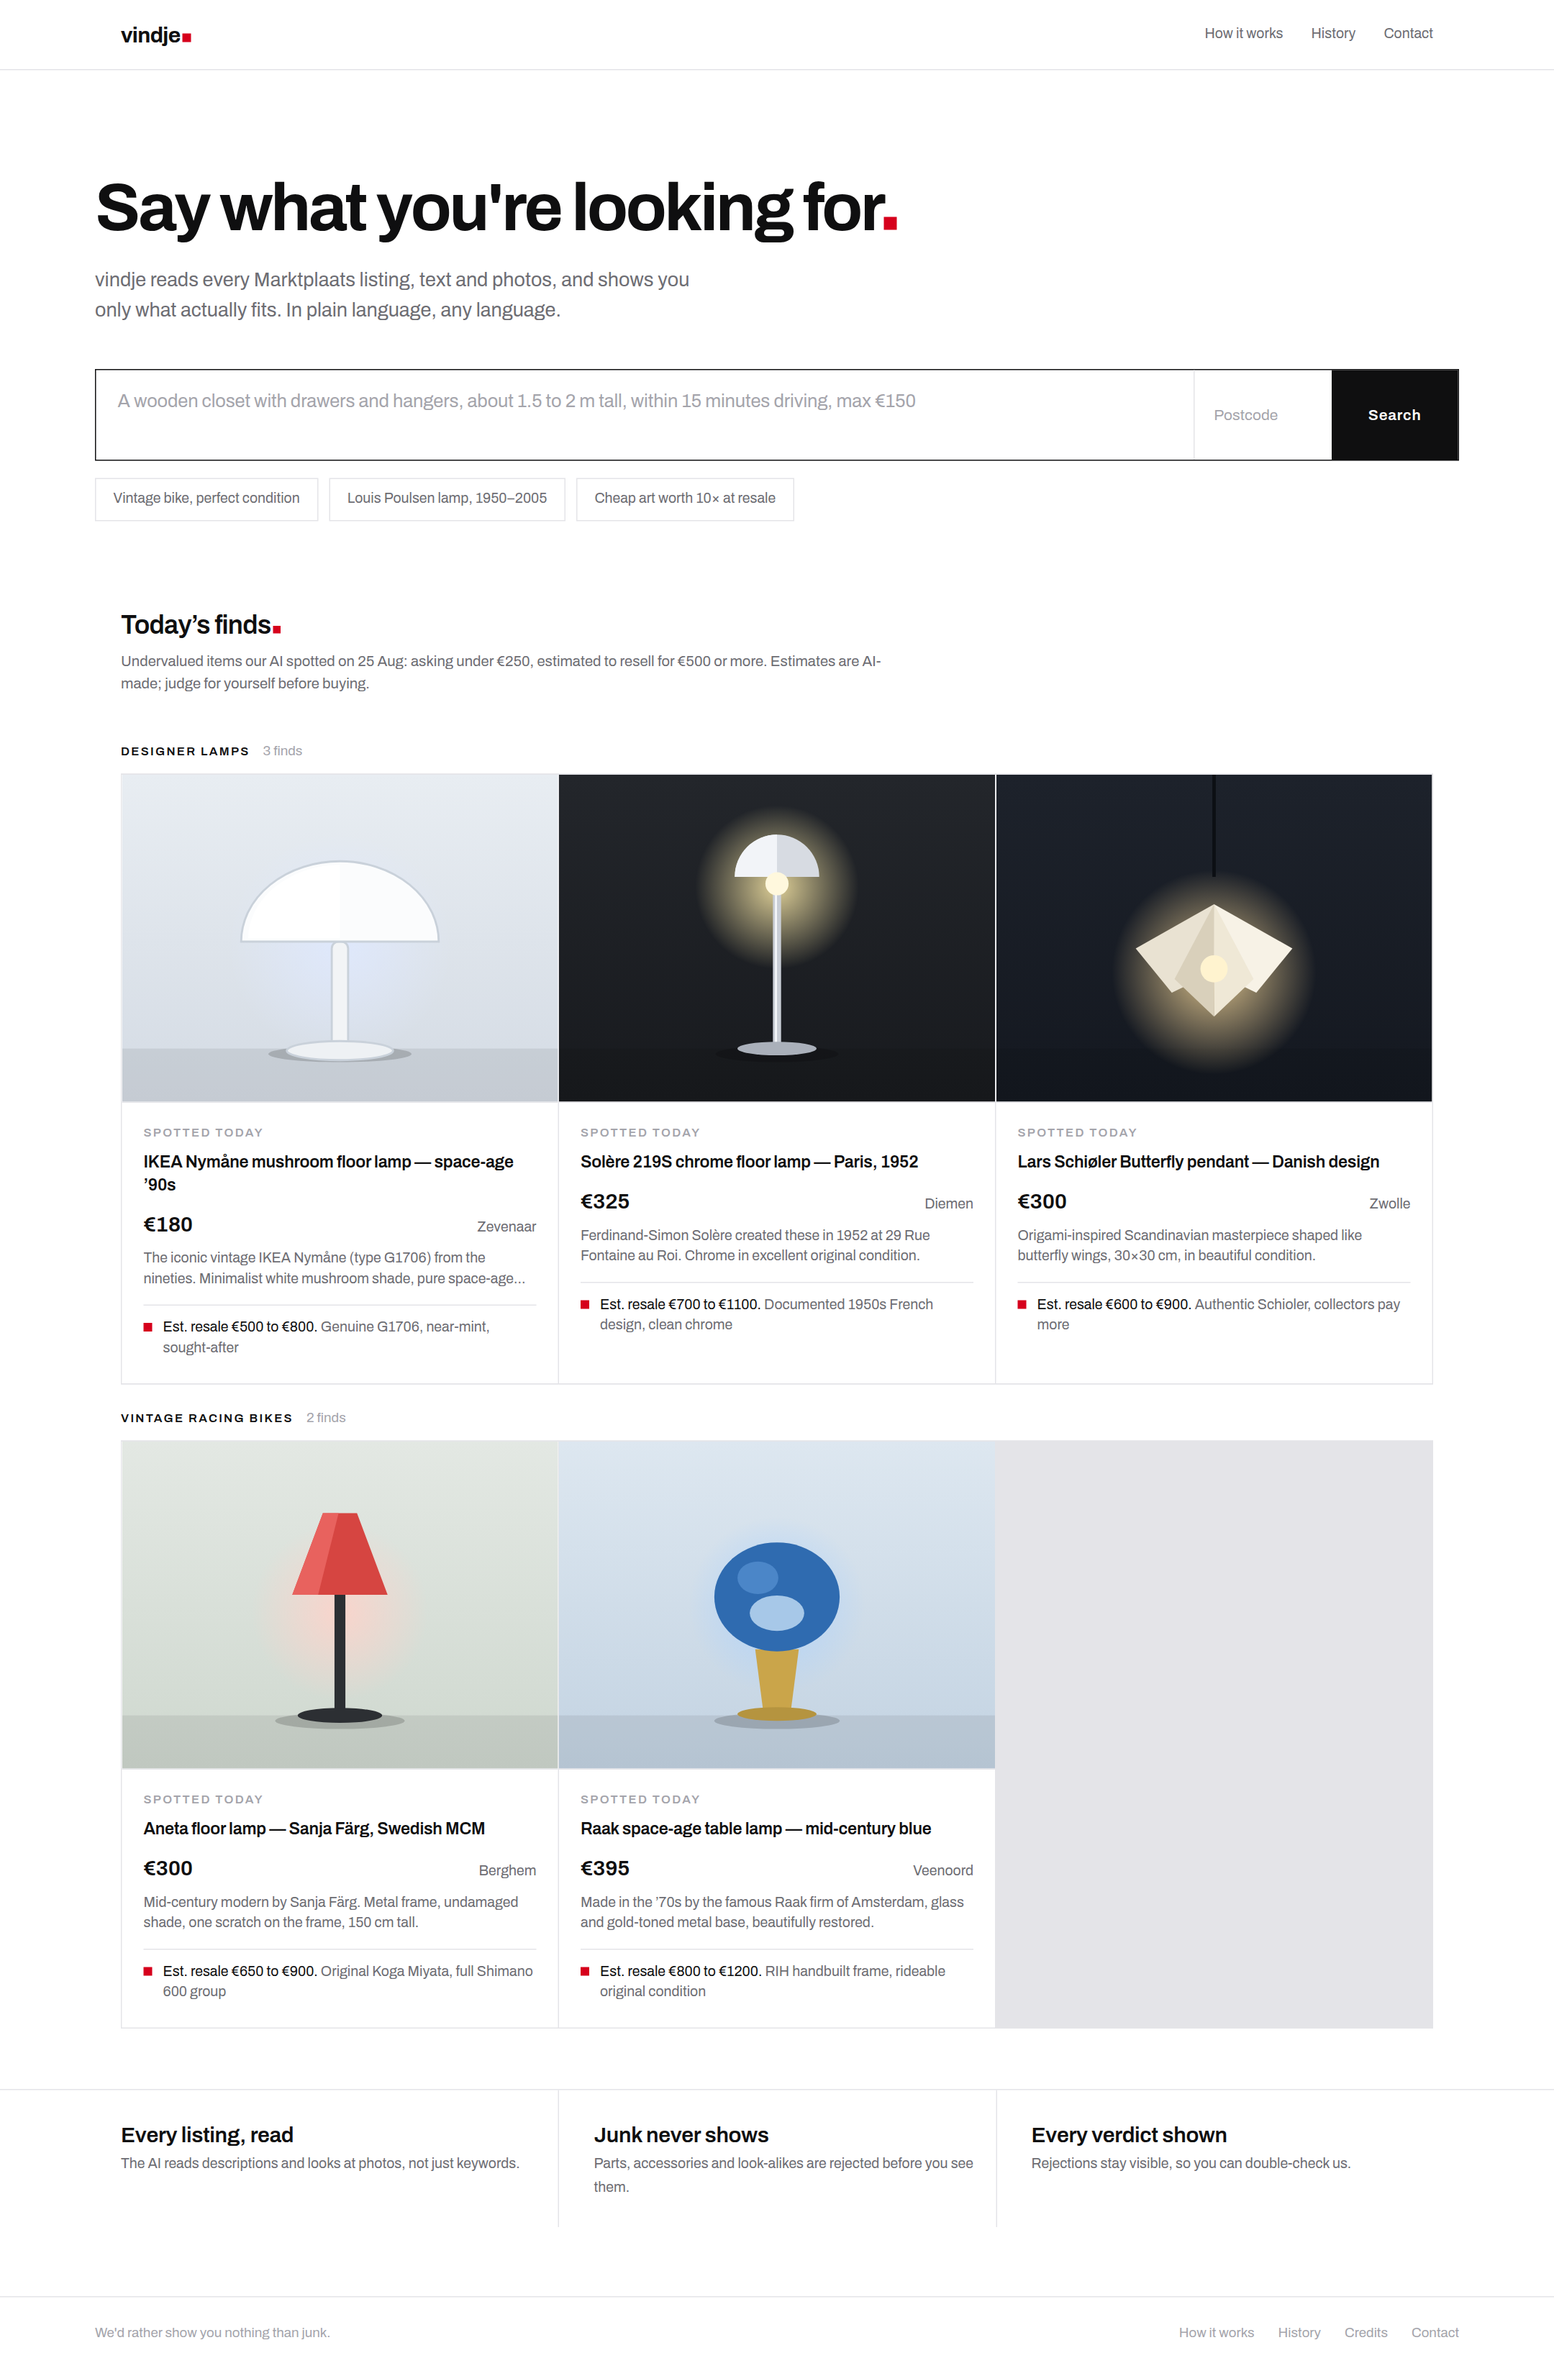
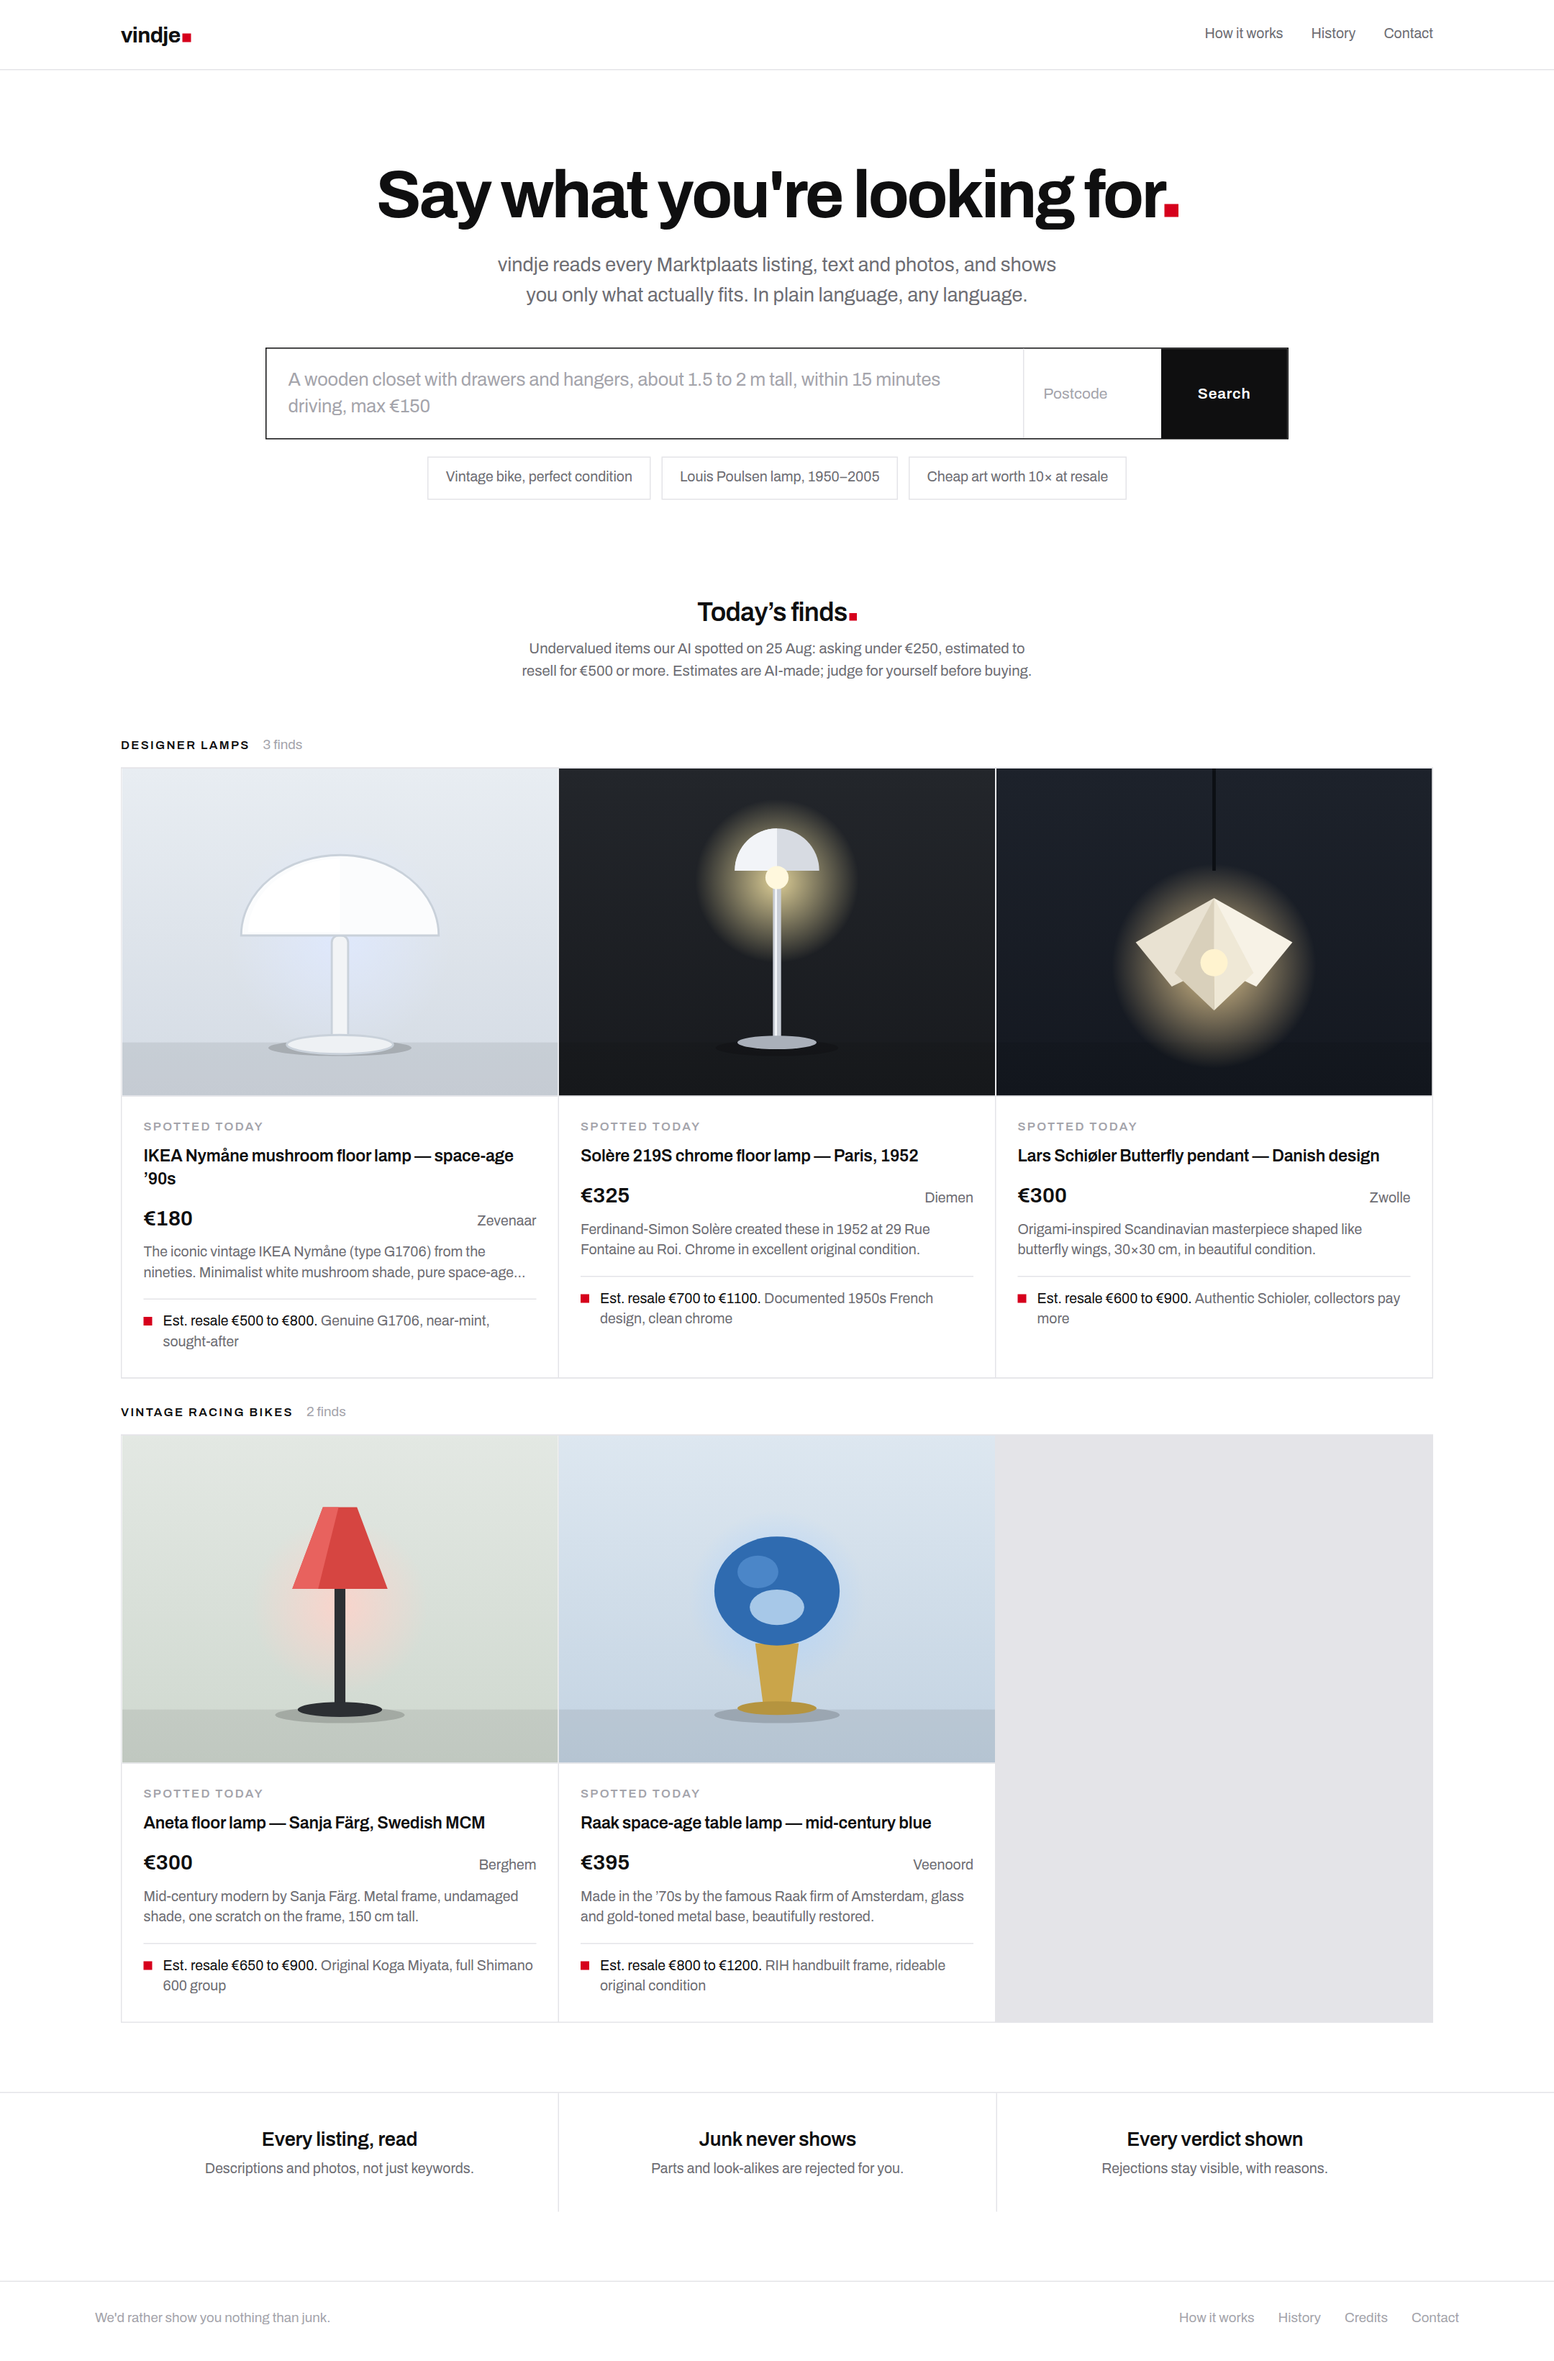
Center and balance the homepage hero
The idle hero was left-heavy: a huge left-aligned headline over a
narrow sub with an empty right half, and a facts row whose middle
column wrapped to two lines. Now the whole idle state sits on one
centered axis: headline, sub, a narrower single-line search bar that
grows as you type, example chips, and the 'Today's finds' header. The
facts row is three level, centered, one-line columns. The compact
left-aligned layout is unchanged for the searching and results states.

Claude-Session: https://claude.ai/code/session_01S6MiRWw3mcKJoMbTWpKwhx

diff --git a/app.py b/app.py
@@ -680,24 +680,27 @@ HTML = """<!doctype html>
   .nav { margin-left: auto; display: flex; gap: 26px; font-size: 13px; color: var(--grey); }
   .nav a:hover { color: var(--ink); }
 
-  /* hero (idle only) */
-  .hero { padding: 96px 0 0; }
+  /* hero (idle only): a centered, symmetric composition */
+  .hero { padding: 84px 0 0; text-align: center; }
   .hero h1 { font-size: clamp(38px, 5.5vw, 62px); font-weight: 700; letter-spacing: -.035em;
-             line-height: 1.02; max-width: 900px; text-wrap: balance; }
+             line-height: 1.02; max-width: 900px; margin: 0 auto; text-wrap: balance; }
   .hero h1 .sq { width: .2em; height: .2em; }
-  .hero .sub { margin: 22px 0 0; font-size: 18px; color: var(--grey); max-width: 560px; line-height: 1.55; }
+  .hero .sub { margin: 20px auto 0; font-size: 18px; color: var(--grey); max-width: 540px;
+               line-height: 1.55; text-wrap: balance; }
   body.run .hero { display: none; }
 
   /* search */
   .search { padding: 40px 0 28px; }
+  body:not(.run) .search { max-width: 948px; padding-top: 34px; }
+  body:not(.run) .examples { justify-content: center; }
   .search .slabel { display: none; color: var(--faint); margin-bottom: 12px; }
   body.run .search { padding-top: 44px; }
   body.run .search .slabel { display: block; }
   .bar { display: flex; align-items: stretch; border: 1px solid var(--ink); background: #fff; }
   .bar:focus-within { box-shadow: 0 0 0 1px var(--ink); }
-  #q { flex: 1; min-height: 60px; padding: 17px 20px; font: inherit; font-size: 17px;
+  #q { flex: 1; min-height: 64px; padding: 19px 20px; font: inherit; font-size: 17px;
        line-height: 1.45; letter-spacing: -.005em; border: 0; resize: none;
-       background: transparent; color: var(--ink); outline: none; }
+       background: transparent; color: var(--ink); outline: none; overflow: hidden; }
   #q::placeholder { color: var(--faint); }
   #pc { width: 128px; padding: 0 18px; font: inherit; font-size: 14px; border: 0;
         border-left: 1px solid var(--hair); background: transparent; color: var(--ink);
@@ -779,12 +782,12 @@ HTML = """<!doctype html>
   .deals { display: none; padding-top: 8px; }
   .deals.show { display: block; }
   body.run .deals { display: none; }
-  .deals .dhead { display: flex; align-items: baseline; flex-wrap: wrap; gap: 8px 14px;
-                  padding: 26px 0 6px; }
+  .deals .dhead { display: flex; justify-content: center; align-items: baseline;
+                  flex-wrap: wrap; gap: 8px 14px; padding: 34px 0 6px; }
   .deals .dhead h2 { font-size: 24px; font-weight: 600; letter-spacing: -.02em; }
   .deals .dhead h2 .sq { width: 7px; height: 7px; margin-left: 2px; }
-  .deals .dsub { color: var(--grey); font-size: 13.5px; max-width: 720px; line-height: 1.55;
-                 padding-bottom: 20px; }
+  .deals .dsub { color: var(--grey); font-size: 13.5px; max-width: 620px; line-height: 1.55;
+                 margin: 0 auto; text-align: center; text-wrap: balance; padding-bottom: 26px; }
   .deals .cat { display: flex; align-items: baseline; gap: 12px; padding: 22px 0 12px; }
   .deals .cat .label { color: var(--ink); }
   .deals .cat .n { color: var(--faint); font-size: 12.5px; }
@@ -839,12 +842,13 @@ HTML = """<!doctype html>
   main { flex: 1 0 auto; }
 
   /* facts row (idle only) */
-  .homefacts { border-top: 1px solid var(--hair); margin-top: 56px; }
+  .homefacts { border-top: 1px solid var(--hair); margin-top: 64px; }
   .homefacts .in { display: grid; grid-template-columns: 1fr 1fr 1fr; }
-  .fact { padding: 26px 0; }
-  .fact + .fact { padding-left: 32px; border-left: 1px solid var(--hair); }
-  .fact b { display: block; font-size: 20px; font-weight: 600; letter-spacing: -.01em; }
-  .fact span { font-size: 13px; color: var(--grey); }
+  .fact { padding: 30px 28px; text-align: center; }
+  .fact + .fact { border-left: 1px solid var(--hair); }
+  .fact b { display: block; font-size: 18px; font-weight: 600; letter-spacing: -.01em; }
+  .fact span { display: block; font-size: 13px; color: var(--grey); margin-top: 4px;
+               text-wrap: balance; }
   body.run .homefacts { display: none; }
   @media (max-width: 800px) {
     .homefacts .in { grid-template-columns: 1fr; }
@@ -900,7 +904,7 @@ HTML = """<!doctype html>
   <div class="slabel label">Your search</div>
   <form id="f">
     <div class="bar">
-      <textarea id="q" rows="2" placeholder="A wooden closet with drawers and hangers, about 1.5 to 2 m tall, within 15 minutes driving, max &euro;150"></textarea>
+      <textarea id="q" rows="1" placeholder="A wooden wardrobe with drawers, 2 m tall, within 15 min driving, max &euro;150"></textarea>
       <input type="text" id="pc" placeholder="Postcode" autocomplete="postal-code">
       <button id="go" type="submit">Search</button>
     </div>
@@ -936,9 +940,9 @@ HTML = """<!doctype html>
 <section class="deals wrap" id="dealsSec"><div id="deals"></div></section>
 
 <div class="homefacts"><div class="wrap in">
-  <div class="fact"><b>Every listing, read</b><span>The AI reads descriptions and looks at photos, not just keywords.</span></div>
-  <div class="fact"><b>Junk never shows</b><span>Parts, accessories and look-alikes are rejected before you see them.</span></div>
-  <div class="fact"><b>Every verdict shown</b><span>Rejections stay visible, so you can double-check us.</span></div>
+  <div class="fact"><b>Every listing, read</b><span>Descriptions and photos, not just keywords.</span></div>
+  <div class="fact"><b>Junk never shows</b><span>Parts and look-alikes are rejected for you.</span></div>
+  <div class="fact"><b>Every verdict shown</b><span>Rejections stay visible, with reasons.</span></div>
 </div></div>
 </main>
 
@@ -1323,6 +1327,7 @@ f.addEventListener('submit', async e => {
 function renderSharedResults(rec) {
   document.body.classList.add('run');
   $('q').value = rec.wish || '';
+  fitQ();
   $('pc').value = rec.postcode || '';
   showSpec(rec.interpreted, rec.ai);
   baseNotes = (rec.notes || []).concat(['Shared search results. Click the vindje logo to start your own.']);
@@ -1392,9 +1397,17 @@ if (SHARED) {
 
 /* ---------- misc wiring ---------- */
 
+function fitQ() {
+  const q = $('q');
+  q.style.height = 'auto';
+  q.style.height = q.scrollHeight + 'px';
+}
+$('q').addEventListener('input', fitQ);
+
 document.querySelectorAll('.ex').forEach(b => b.addEventListener('click', () => {
   const q = $('q');
   q.value = b.dataset.q || b.textContent.trim();
+  fitQ();
   q.focus();
 }));
 
